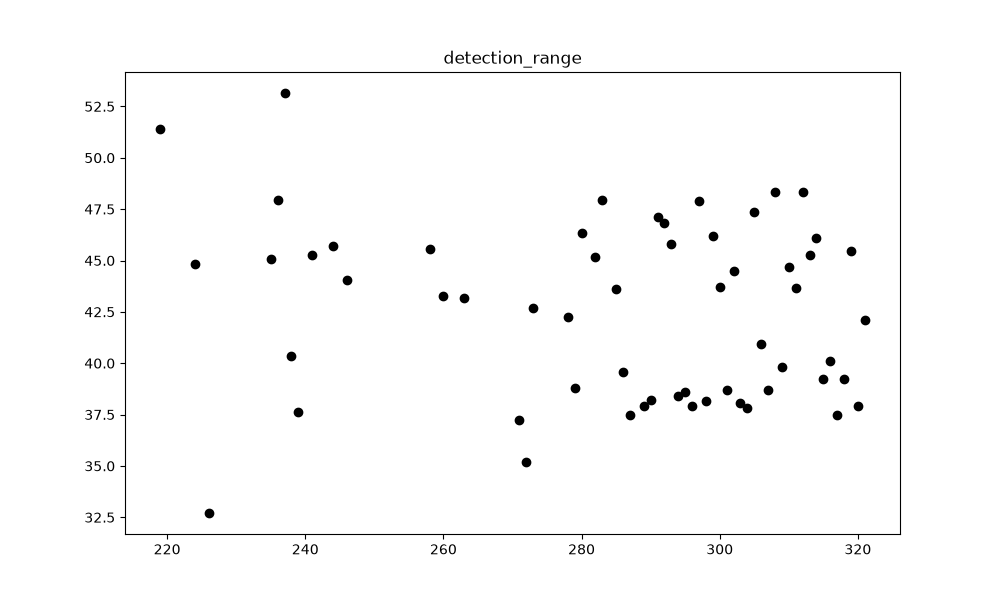
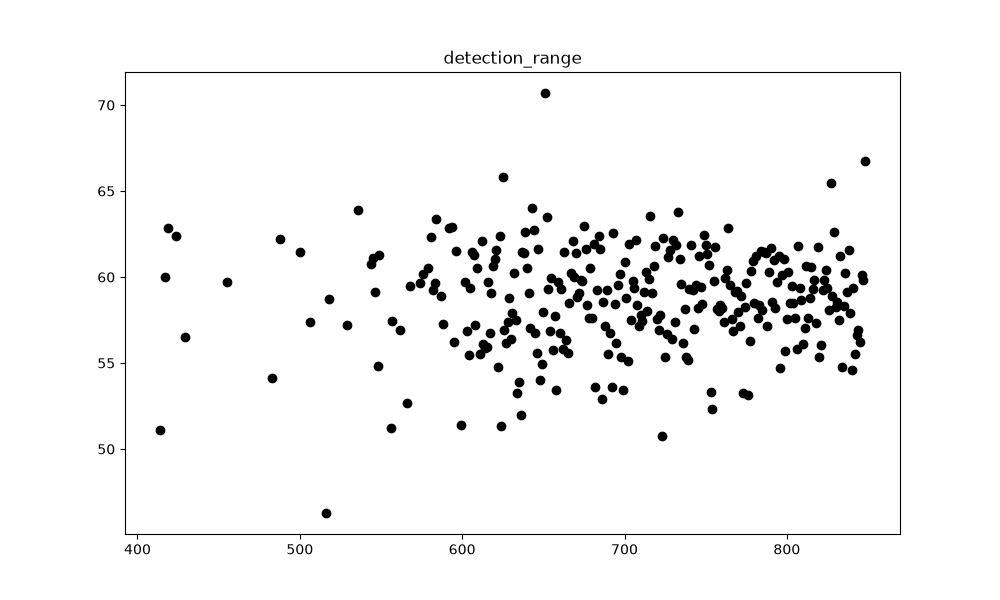
環境導入後のパラメータ調整

diff --git a/base_code/model/organism.py b/base_code/model/organism.py
@@ -9,21 +9,24 @@ RANGE_OF_DIRECTIONS = [0, 360]
 ORGANISM_COLORS = ['#FFA5CC', '#A0D4FF']
 
 #体力の定数(min, max)
-STAMINA_MIN = 75
-STAMINA_MAX = 125
+STAMINA_MIN = 85
+STAMINA_MAX = 135
 
 #移動速度の最大最小値
 SPEED_MIN = 1
 SPEED_MAX = 3
 
 #餌を感知できる範囲
-RANGE_FOOD_DETECTION_MIN = 25
-RANGE_FOOD_DETECTION_MAX = 60
+RANGE_FOOD_DETECTION_MIN = 35
+RANGE_FOOD_DETECTION_MAX = 75
 
 #繁殖距離とクールダウン
 REPRODUCTION_DISTANCE = 5
 REPRODUCTION_COOLDOWN = 30
 
+# 暑さ耐性の範囲
+HEAT_TOLERANCE_MIN = 0.0
+HEAT_TOLERANCE_MAX = 1.0
 
 class Organism:
     def __init__(self, org_id, width, height, gender, initial_genes=None, drive_genotype=("W","W")):
@@ -42,7 +45,11 @@ class Organism:
             #体力遺伝子の生成と移動速度遺伝子と餌感知範囲遺伝子を生成するところ
             self.genes = {"stamina": random.uniform(STAMINA_MIN, STAMINA_MAX),
                         "detection_range": random.uniform(RANGE_FOOD_DETECTION_MIN, RANGE_FOOD_DETECTION_MAX),
-                        "speed": random.uniform(SPEED_MIN, SPEED_MAX)}
+                        "speed": random.uniform(SPEED_MIN, SPEED_MAX),
+                        "heat_tolerance": random.uniform(
+                            HEAT_TOLERANCE_MIN,
+                            HEAT_TOLERANCE_MAX
+                        ),}
         else:
             self.genes = dict(initial_genes)  # 遺伝子をコピーして保持
         self.stamina = self.genes["stamina"]
@@ -54,8 +61,11 @@ class Organism:
         self.velocity = np.array([np.cos(self.direction), np.sin(self.direction)]) * self.speed
         
         self.polygon = np.array([(20, 0), (0, 5), (0, -5)])
-        self.type_id = self.org_id % 2
-        self.color = ORGANISM_COLORS[self.type_id]
+        # オスは水色、メスはピンク
+        if self.gender == 1:
+            self.color = '#A0D4FF'
+        else:
+            self.color = '#FFA5CC'
 
     def update_reproduction_cooldown(self):
         if self.reproduction_cooldown > 0:
@@ -73,7 +83,8 @@ class Organism:
             "stamina": self.genes["stamina"] * constant + partner.genes["stamina"] * (1 - constant),
             "detection_range": self.genes["detection_range"] * constant + partner.genes["detection_range"] * (1 -constant),
             "speed": self.genes["speed"] * constant + partner.genes["speed"] * (1 - constant),
-        }
+            "heat_tolerance": (self.genes["heat_tolerance"] * constant+ partner.genes["heat_tolerance"] * (1 - constant)),
+            }
 
         #突然変異の処理
         for gene in child_genes:
@@ -118,7 +129,7 @@ class Organism:
         return child
 
 
-    def move(self, food_list):
+    def move(self, food_list, is_hot, hot_multiplier, cold_multiplier):
         self.update_reproduction_cooldown()  # 繁殖クールダウンを更新
         target_food = None
         min_dist = float("inf")
@@ -153,7 +164,19 @@ class Organism:
             self.position[1] = np.abs(self.position[1] - self.height)
 
         #体力消費の処理
-        self.stamina -= 0.2 + (0.2 * self.speed) # 移動速度に応じて体力を消費
+        # 基本の体力消費量
+        stamina_cost = 0.2 + (0.2 * self.speed)
+
+        # Dを1つ以上持っているか
+        has_drive = "D" in self.drive_genotype
+
+        # 暑さ耐性がある場合、体力消費が減る
+        if is_hot:
+            heat_penalty = 0.5 * (1 - self.genes["heat_tolerance"])
+            stamina_cost *= (1 + heat_penalty)
+
+        self.stamina -= stamina_cost
+
         if self.stamina <= 0:
             self.stamina = 0
             self.velocity = np.zeros(2)

diff --git a/base_code/main_no_drive.py b/base_code/main_no_drive.py
@@ -11,13 +11,19 @@ from model.organism import Organism
 VISUALIZE = True
 
 ORG_NUM = 100
-FOOD_NUM = 40
+FOOD_NUM = 45
 FOOD_COLOR = (255, 220, 50)
 FOOD_RADIUS = 4
 FOOD_EAT_RADIUS = 15
 REMAINING_INDIVIDUALS = 10
 REPRODUCTION_DISTANCE = 5 #繁殖できる2個体の距離の最大値
 REPRODUCTION_COOLDOWN = 30 #各個体の繁殖クールダウンフレーム
+
+# 気温変化の設定
+HOT_FRAMES = 300
+COLD_FRAMES = 300
+HOT_STAMINA_MULTIPLIER = 1.5
+COLD_STAMINA_MULTIPLIER = 1.0
 
 class Food:
     def __init__(self, position):
@@ -80,6 +86,7 @@ def display_genes(org_list):
     plt.savefig("speed.png")
     plt.close()
 
+#---------------------------------------------------------------------------------------------
 
 def main():
     width, height = 500, 500
@@ -91,6 +98,7 @@ def main():
         screen = pygame.display.set_mode((width, height))
         pygame.display.set_caption("Organism Simulation")
         clock = pygame.time.Clock()
+        font = pygame.font.Font(None, 28)
 
     #初期個体の生成
     org_list = []
@@ -112,8 +120,17 @@ def main():
         #体力0の個体は非表示にする
         org_list = [org for org in org_list if org.stamina > 0]
 
+        # 気温を300フレームごとに暑い・寒いと切り替える
+        cycle = HOT_FRAMES + COLD_FRAMES
+        is_hot = (flame_count % cycle) < HOT_FRAMES
+        
+        if is_hot:
+            stamina_multiplier = HOT_STAMINA_MULTIPLIER
+        else:
+            stamina_multiplier = COLD_STAMINA_MULTIPLIER
+
         for org in org_list:
-            org.move(food_list)
+            org.move(food_list, is_hot, HOT_STAMINA_MULTIPLIER, COLD_STAMINA_MULTIPLIER)
 
         # 繁殖の処理
         new_orgs = []
@@ -149,7 +166,7 @@ def main():
             for org in org_list:
                 if np.linalg.norm(org.position - food.position) <= FOOD_EAT_RADIUS:
                     eaten = True
-                    org.stamina = min(org.genes["stamina"], org.stamina + 20)
+                    org.stamina = min(org.genes["stamina"], org.stamina + 25)
                     break
             if not eaten:
                 remaining_food.append(food)
@@ -167,6 +184,12 @@ def main():
 
             for org in org_list:
                 org.display(screen, flame_count)
+
+            # フレーム数を表示（ここに追加）
+            frame_text = font.render(
+                f"Frame: {flame_count}", True, (255, 255, 255)
+            )
+            screen.blit(frame_text, (10, 10))
 
             pygame.display.flip()
             clock.tick(30)

diff --git a/base_code/main.py b/base_code/main.py
@@ -19,6 +19,12 @@ REMAINING_INDIVIDUALS = 10
 REPRODUCTION_DISTANCE = 5 #繁殖できる2個体の距離の最大値
 REPRODUCTION_COOLDOWN = 30 #各個体の繁殖クールダウンフレーム
 
+# 気温変化の設定
+HOT_FRAMES = 300
+COLD_FRAMES = 300
+HOT_STAMINA_MULTIPLIER = 1.5
+COLD_STAMINA_MULTIPLIER = 1.0
+
 class Food:
     def __init__(self, position):
         self.position = np.array(position)
@@ -91,6 +97,7 @@ def main():
         screen = pygame.display.set_mode((width, height))
         pygame.display.set_caption("Organism Simulation")
         clock = pygame.time.Clock()
+        font = pygame.font.Font(None, 28)
 
     #初期個体の生成
     org_list = []
@@ -115,8 +122,17 @@ def main():
         #体力0の個体は非表示にする
         org_list = [org for org in org_list if org.stamina > 0]
 
+        # 気温を300フレームごとに暑い・寒いと切り替える
+        cycle = HOT_FRAMES + COLD_FRAMES
+        is_hot = (flame_count % cycle) < HOT_FRAMES
+        
+        if is_hot:
+            stamina_multiplier = HOT_STAMINA_MULTIPLIER
+        else:
+            stamina_multiplier = COLD_STAMINA_MULTIPLIER
+
         for org in org_list:
-            org.move(food_list)
+            org.move(food_list, is_hot, HOT_STAMINA_MULTIPLIER, COLD_STAMINA_MULTIPLIER)
 
         # 繁殖の処理
         new_orgs = []
@@ -152,7 +168,7 @@ def main():
             for org in org_list:
                 if np.linalg.norm(org.position - food.position) <= FOOD_EAT_RADIUS:
                     eaten = True
-                    org.stamina = min(org.genes["stamina"], org.stamina + 20)
+                    org.stamina = min(org.genes["stamina"], org.stamina + 22)
                     break
             if not eaten:
                 remaining_food.append(food)
@@ -164,6 +180,12 @@ def main():
 
         if VISUALIZE:
             screen.fill((0, 0, 0))
+            # フレーム数を表示
+            font = pygame.font.Font(None, 28)
+            frame_text = font.render(
+                f"Frame: {flame_count}", True, (255, 255, 255)
+            )
+            screen.blit(frame_text, (10, 10))
 
             for food in food_list:
                 food.display(screen)
